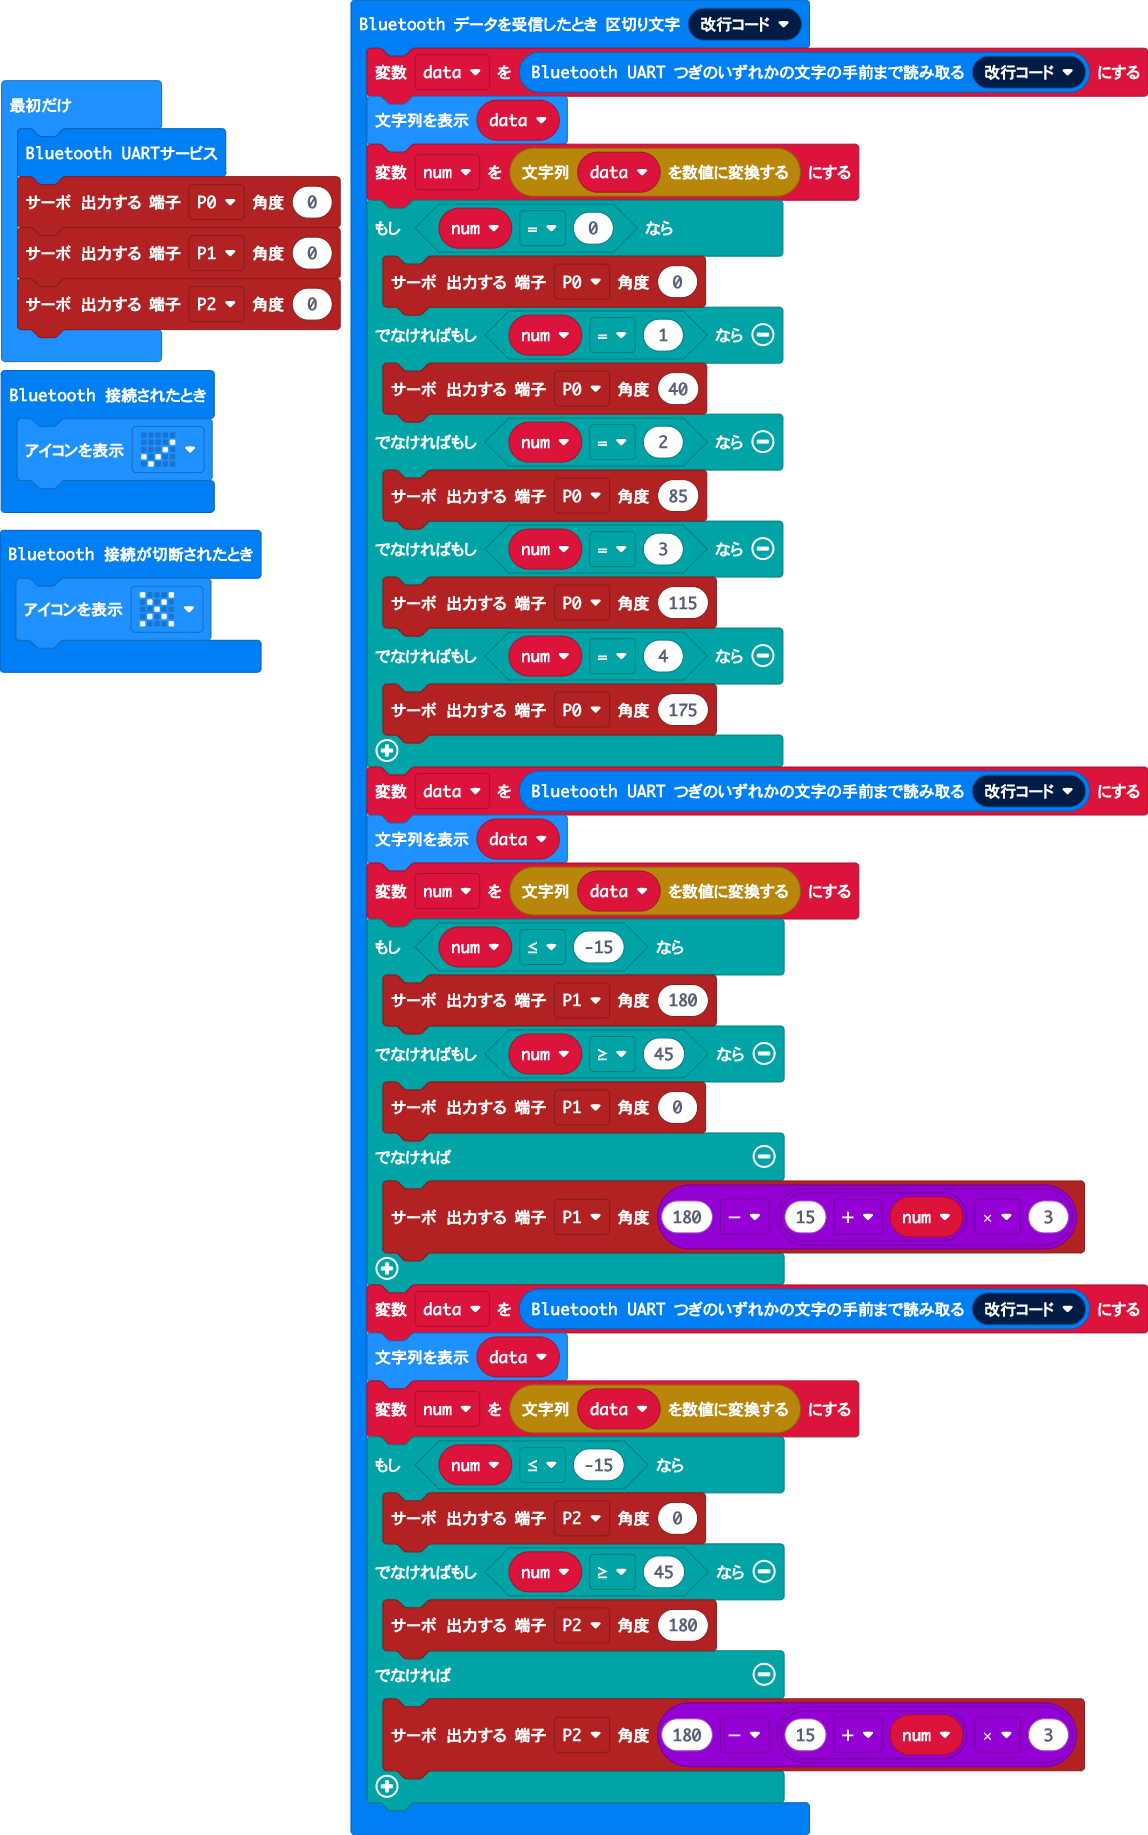
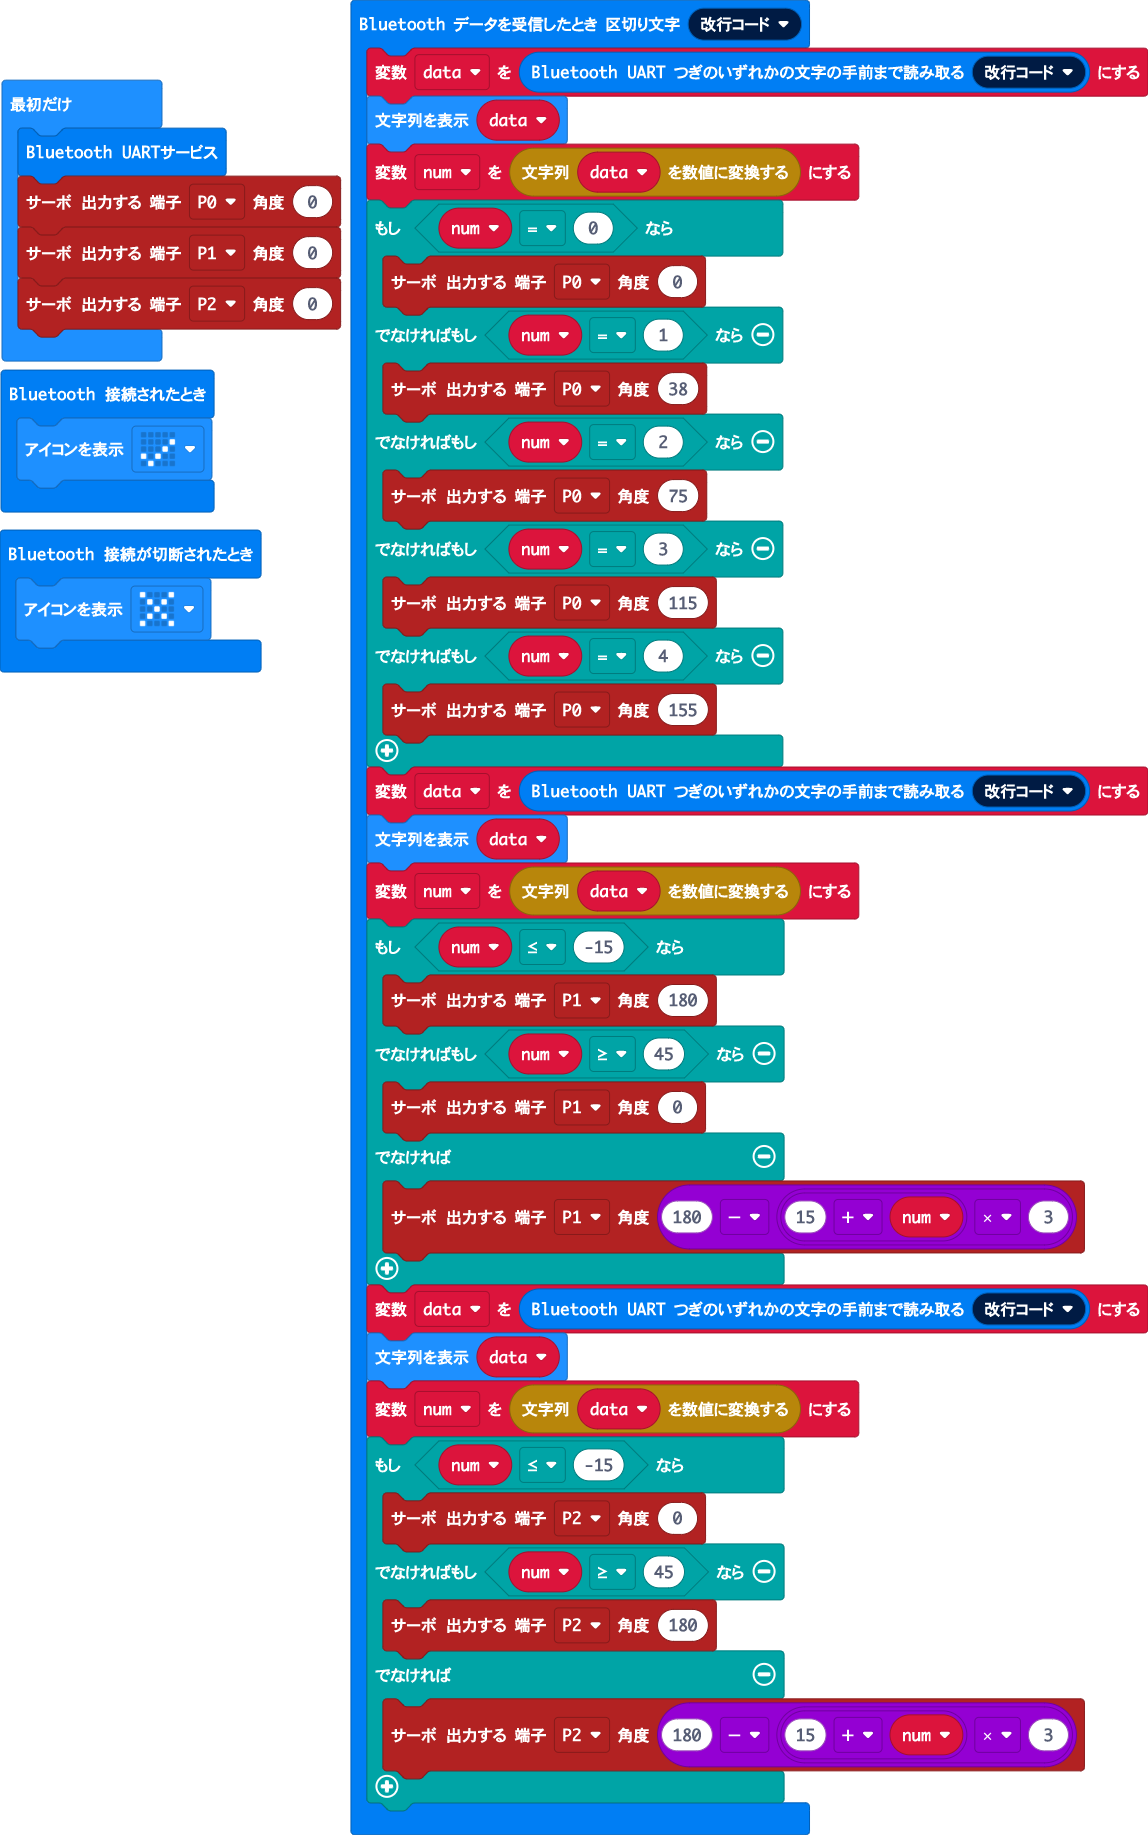
更新 main.blocks, main.ts

Changed region(s): [[0.0, 0.1553, 0.1829, 0.2796], [0.0, 0.0311, 0.1829, 0.1243], [0.2744, 0.0932, 0.3049, 0.1243]]

diff --git a/main.ts b/main.ts
@@ -11,13 +11,13 @@ bluetooth.onUartDataReceived(serial.delimiters(Delimiters.NewLine), function () 
     if (num == 0) {
         pins.servoWritePin(AnalogPin.P0, 0)
     } else if (num == 1) {
-        pins.servoWritePin(AnalogPin.P0, 40)
+        pins.servoWritePin(AnalogPin.P0, 38)
     } else if (num == 2) {
-        pins.servoWritePin(AnalogPin.P0, 85)
+        pins.servoWritePin(AnalogPin.P0, 75)
     } else if (num == 3) {
         pins.servoWritePin(AnalogPin.P0, 115)
     } else if (num == 4) {
-        pins.servoWritePin(AnalogPin.P0, 175)
+        pins.servoWritePin(AnalogPin.P0, 155)
     }
     data = bluetooth.uartReadUntil(serial.delimiters(Delimiters.NewLine))
     basic.showString(data)
